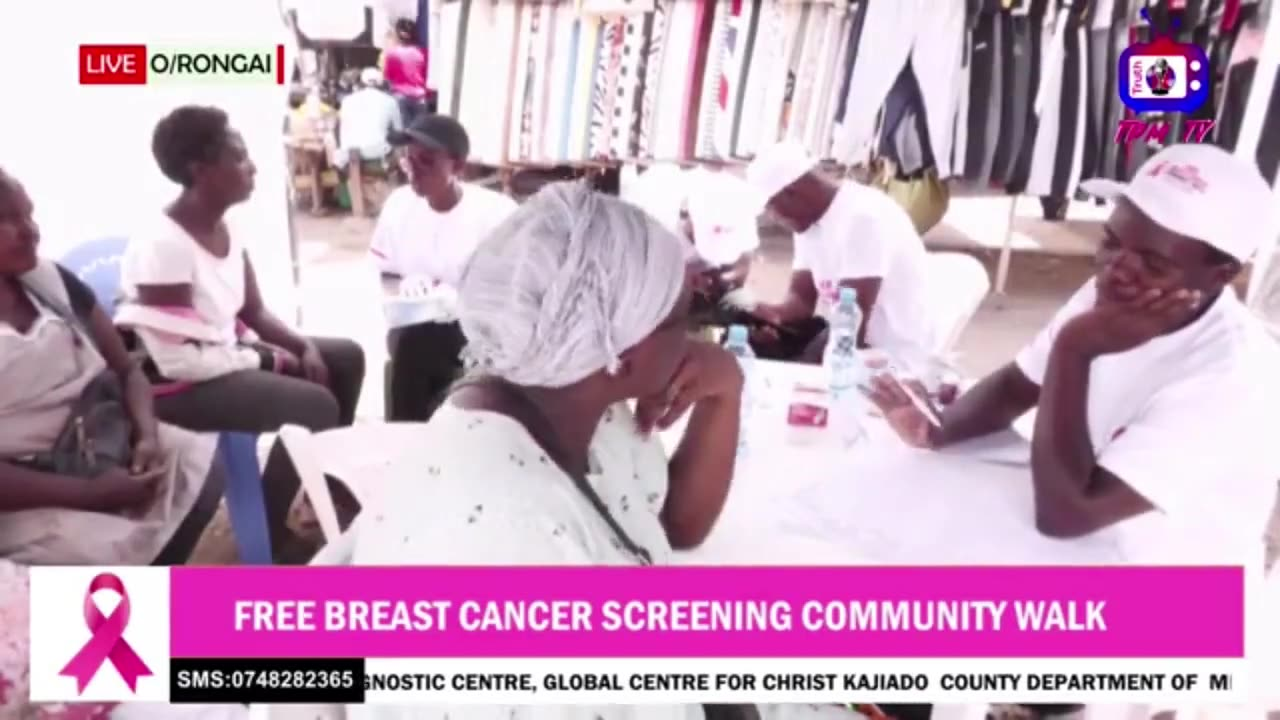
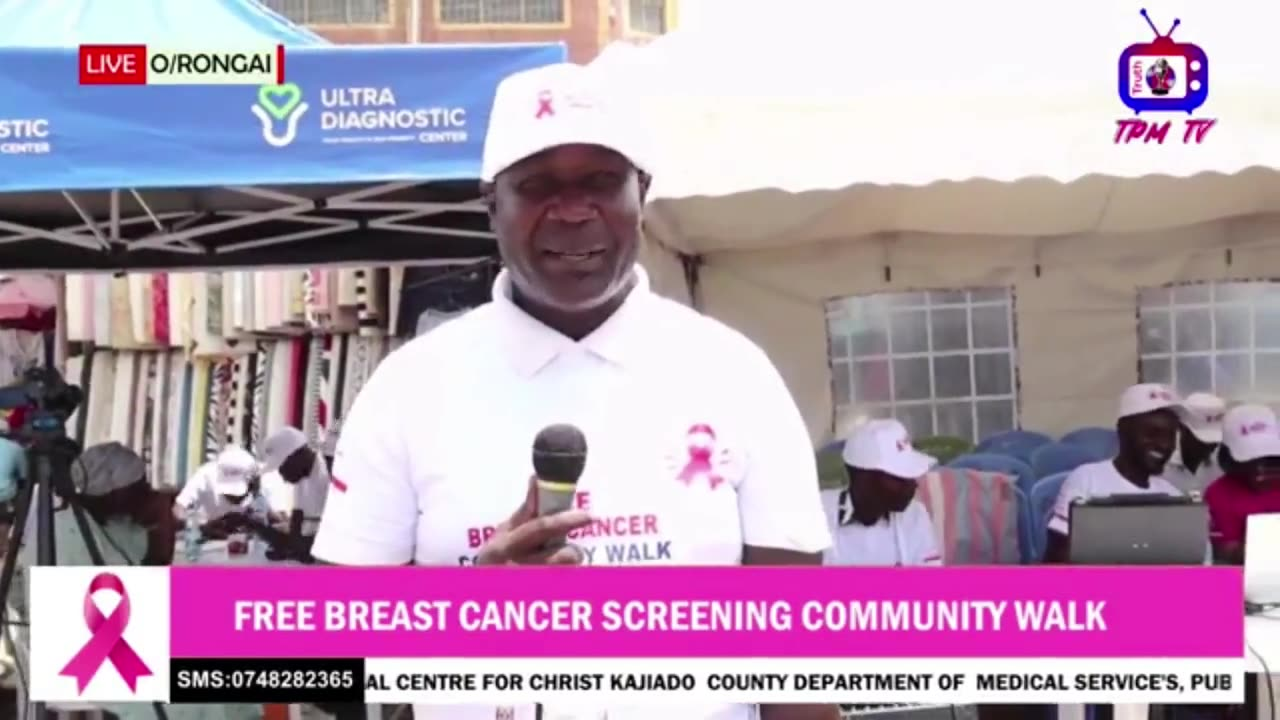
Full-screen video player for event clips, add walk photos to gallery
- Event clips now show as thumbnails with a play button and open in a
  full-screen player (close with x, Esc or clicking outside; arrows or
  left/right keys move between clips)
- Clip covers: Gertrude's shows the Tikkun Africa Foundation caption,
  Dr. Paul's and the Pastor's now show the speakers
- Gallery: 5 Breast Cancer Screening Walk photos added first, under
  Networking and Partnerships

diff --git a/src/website/EventDetail.tsx b/src/website/EventDetail.tsx
@@ -1,9 +1,10 @@
-import React, { useEffect } from "react";
+import React, { useCallback, useEffect, useState } from "react";
 import { Link, useParams } from "react-router-dom";
 import Headers from "../layouts/Headers";
 import Search from "../layouts/Search";
 import Footer from "../layouts/Footer";
 import { events } from "../data/events";
+import VideoLightbox from "./VideoLightbox";
 
 const sectionBadge: React.CSSProperties = {
     display: 'inline-block',
@@ -20,6 +21,8 @@ const sectionBadge: React.CSSProperties = {
 const EventDetail: React.FC = () => {
     const { id } = useParams<{ id: string }>();
     const event = events.find((e) => e.id === id);
+    const [openVideo, setOpenVideo] = useState<number | null>(null);
+    const closeVideo = useCallback(() => setOpenVideo(null), []);
 
     useEffect(() => {
         document.title = event
@@ -229,31 +232,74 @@ const EventDetail: React.FC = () => {
                                 gridTemplateColumns: 'repeat(auto-fill, minmax(min(100%, 340px), 1fr))',
                                 gap: '24px',
                             }}>
-                                {event.videos.map((v) => (
+                                {event.videos.map((v, i) => (
                                     <div key={v.src}>
-                                        <div style={{
-                                            borderRadius: '16px',
-                                            overflow: 'hidden',
-                                            boxShadow: '0 6px 24px rgba(0,0,0,0.08)',
-                                            background: '#000',
-                                            aspectRatio: '16/9',
-                                        }}>
-                                            <video
-                                                controls
-                                                playsInline
-                                                preload="none"
-                                                poster={v.poster ? `${process.env.PUBLIC_URL}/${v.poster}` : undefined}
-                                                style={{ width: '100%', height: '100%', display: 'block' }}
-                                            >
-                                                <source src={`${process.env.PUBLIC_URL}/${v.src}`} type="video/mp4" />
-                                            </video>
-                                        </div>
+                                        <button
+                                            type="button"
+                                            onClick={() => setOpenVideo(i)}
+                                            aria-label={`Play video: ${v.title}`}
+                                            style={{
+                                                position: 'relative',
+                                                display: 'block',
+                                                width: '100%',
+                                                padding: 0,
+                                                border: 'none',
+                                                cursor: 'pointer',
+                                                borderRadius: '16px',
+                                                overflow: 'hidden',
+                                                boxShadow: '0 6px 24px rgba(0,0,0,0.08)',
+                                                background: '#000',
+                                                aspectRatio: '16/9',
+                                            }}
+                                        >
+                                            {v.poster && (
+                                                <img
+                                                    src={`${process.env.PUBLIC_URL}/${v.poster}`}
+                                                    alt=""
+                                                    loading="lazy"
+                                                    style={{ width: '100%', height: '100%', objectFit: 'cover', display: 'block' }}
+                                                />
+                                            )}
+                                            <span style={{
+                                                position: 'absolute',
+                                                inset: 0,
+                                                display: 'flex',
+                                                alignItems: 'center',
+                                                justifyContent: 'center',
+                                                background: 'rgba(0,0,0,0.25)',
+                                            }}>
+                                                <span style={{
+                                                    width: '68px',
+                                                    height: '68px',
+                                                    borderRadius: '50%',
+                                                    background: '#228B22',
+                                                    color: '#fff',
+                                                    display: 'flex',
+                                                    alignItems: 'center',
+                                                    justifyContent: 'center',
+                                                    fontSize: '26px',
+                                                    paddingLeft: '5px',
+                                                    boxShadow: '0 4px 20px rgba(0,0,0,0.35)',
+                                                }}>
+                                                    &#9654;
+                                                </span>
+                                            </span>
+                                        </button>
                                         <p style={{ marginTop: '10px', fontSize: '15px', fontWeight: 600, color: '#1a1a2e' }}>
                                             {v.title}
                                         </p>
                                     </div>
                                 ))}
                             </div>
+                        )}
+
+                        {event.videos && openVideo !== null && (
+                            <VideoLightbox
+                                videos={event.videos}
+                                index={openVideo}
+                                onClose={closeVideo}
+                                onChange={setOpenVideo}
+                            />
                         )}
 
                         {event.links && event.links.length > 0 && (

diff --git a/src/website/VideoLightbox.tsx b/src/website/VideoLightbox.tsx
@@ -1,0 +1,152 @@
+import React, { useEffect } from "react";
+import { createPortal } from "react-dom";
+
+export interface LightboxVideo {
+    title: string;
+    src: string;
+    poster?: string;
+}
+
+interface Props {
+    videos: LightboxVideo[];
+    index: number;
+    onClose: () => void;
+    onChange: (index: number) => void;
+}
+
+const url = (path: string) => `${process.env.PUBLIC_URL}/${path}`;
+
+const navButton: React.CSSProperties = {
+    position: 'absolute',
+    top: '50%',
+    transform: 'translateY(-50%)',
+    width: '52px',
+    height: '52px',
+    borderRadius: '50%',
+    border: 'none',
+    background: 'rgba(255,255,255,0.15)',
+    color: '#fff',
+    fontSize: '28px',
+    lineHeight: 1,
+    cursor: 'pointer',
+    zIndex: 2,
+};
+
+/** Full-screen video player shown on top of the page. */
+const VideoLightbox: React.FC<Props> = ({ videos, index, onClose, onChange }) => {
+    const video = videos[index];
+    const hasPrev = index > 0;
+    const hasNext = index < videos.length - 1;
+
+    useEffect(() => {
+        const onKey = (e: KeyboardEvent) => {
+            if (e.key === 'Escape') onClose();
+            if (e.key === 'ArrowLeft' && hasPrev) onChange(index - 1);
+            if (e.key === 'ArrowRight' && hasNext) onChange(index + 1);
+        };
+        window.addEventListener('keydown', onKey);
+        return () => window.removeEventListener('keydown', onKey);
+    }, [index, hasPrev, hasNext, onClose, onChange]);
+
+    // Stop the page behind from scrolling while the player is open
+    useEffect(() => {
+        const previous = document.body.style.overflow;
+        document.body.style.overflow = 'hidden';
+        return () => { document.body.style.overflow = previous; };
+    }, []);
+
+    // Rendered on <body> so the sticky header (z-index 999999) can't cover it
+    return createPortal(
+        <div
+            role="dialog"
+            aria-modal="true"
+            aria-label={video.title}
+            onClick={onClose}
+            style={{
+                position: 'fixed',
+                inset: 0,
+                zIndex: 2147483000,
+                background: 'rgba(0,0,0,0.92)',
+                display: 'flex',
+                flexDirection: 'column',
+                alignItems: 'center',
+                justifyContent: 'center',
+                padding: '60px 16px 24px',
+            }}
+        >
+            <button
+                onClick={onClose}
+                aria-label="Close video"
+                style={{
+                    position: 'absolute',
+                    top: '14px',
+                    right: '20px',
+                    background: 'transparent',
+                    border: 'none',
+                    color: '#fff',
+                    fontSize: '44px',
+                    lineHeight: 1,
+                    cursor: 'pointer',
+                    zIndex: 2,
+                }}
+            >
+                &times;
+            </button>
+
+            {hasPrev && (
+                <button
+                    aria-label="Previous video"
+                    onClick={(e) => { e.stopPropagation(); onChange(index - 1); }}
+                    style={{ ...navButton, left: '16px' }}
+                >
+                    &#8249;
+                </button>
+            )}
+            {hasNext && (
+                <button
+                    aria-label="Next video"
+                    onClick={(e) => { e.stopPropagation(); onChange(index + 1); }}
+                    style={{ ...navButton, right: '16px' }}
+                >
+                    &#8250;
+                </button>
+            )}
+
+            <div onClick={(e) => e.stopPropagation()} style={{ width: 'min(1200px, 100%)' }}>
+                <video
+                    key={video.src}
+                    controls
+                    autoPlay
+                    playsInline
+                    poster={video.poster ? url(video.poster) : undefined}
+                    style={{
+                        width: '100%',
+                        maxHeight: '80vh',
+                        display: 'block',
+                        background: '#000',
+                        borderRadius: '12px',
+                    }}
+                >
+                    <source src={url(video.src)} type="video/mp4" />
+                </video>
+                <p style={{
+                    marginTop: '14px',
+                    color: '#fff',
+                    fontSize: '17px',
+                    fontWeight: 600,
+                    textAlign: 'center',
+                }}>
+                    {video.title}
+                    {videos.length > 1 && (
+                        <span style={{ color: 'rgba(255,255,255,0.6)', fontWeight: 400 }}>
+                            {'  ·  '}{index + 1} / {videos.length}
+                        </span>
+                    )}
+                </p>
+            </div>
+        </div>,
+        document.body
+    );
+};
+
+export default VideoLightbox;

diff --git a/src/website/Gallery.tsx b/src/website/Gallery.tsx
@@ -52,6 +52,38 @@ const Gallery: React.FC = () => {
     }, [pageBgSlides.length]);
 
     const galleryItems: GalleryItem[] = [
+        // 0. Breast Cancer Screening Community Walk, 30 Oct 2026 (newest first)
+        {
+            id: 180,
+            imageUrl: `${process.env.PUBLIC_URL}/assets/images/events/breast-cancer-walk-2026-07.jpg`,
+            categories: ['Networking and Partnerships'],
+            alt: "Breast Cancer Screening Community Walk"
+        },
+        {
+            id: 181,
+            imageUrl: `${process.env.PUBLIC_URL}/assets/images/events/breast-cancer-walk-2026-01.jpg`,
+            categories: ['Networking and Partnerships'],
+            alt: "Breast Cancer Screening Community Walk"
+        },
+        {
+            id: 182,
+            imageUrl: `${process.env.PUBLIC_URL}/assets/images/events/breast-cancer-walk-2026-02.jpg`,
+            categories: ['Networking and Partnerships'],
+            alt: "Breast Cancer Screening Community Walk"
+        },
+        {
+            id: 183,
+            imageUrl: `${process.env.PUBLIC_URL}/assets/images/events/breast-cancer-walk-2026-03.jpg`,
+            categories: ['Networking and Partnerships'],
+            alt: "Breast Cancer Screening Partners"
+        },
+        {
+            id: 184,
+            imageUrl: `${process.env.PUBLIC_URL}/assets/images/events/breast-cancer-walk-2026-04.jpg`,
+            categories: ['Networking and Partnerships'],
+            alt: "Breast Cancer Screening Tents and Ambulance"
+        },
+
         // 1. Malawi Group
         {
             id: 1,
